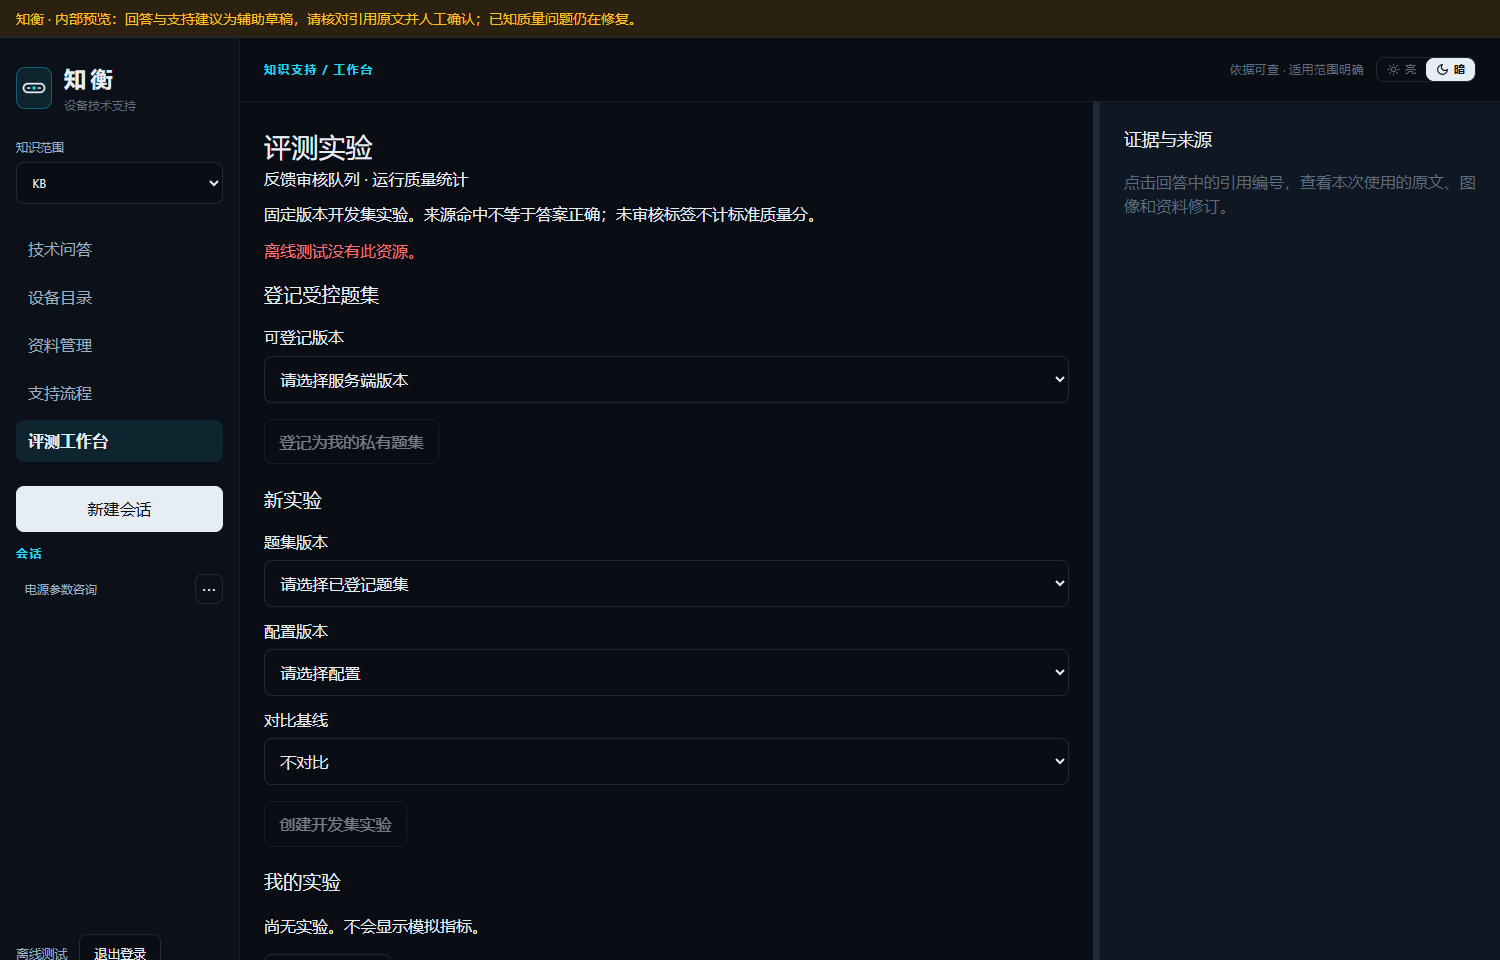
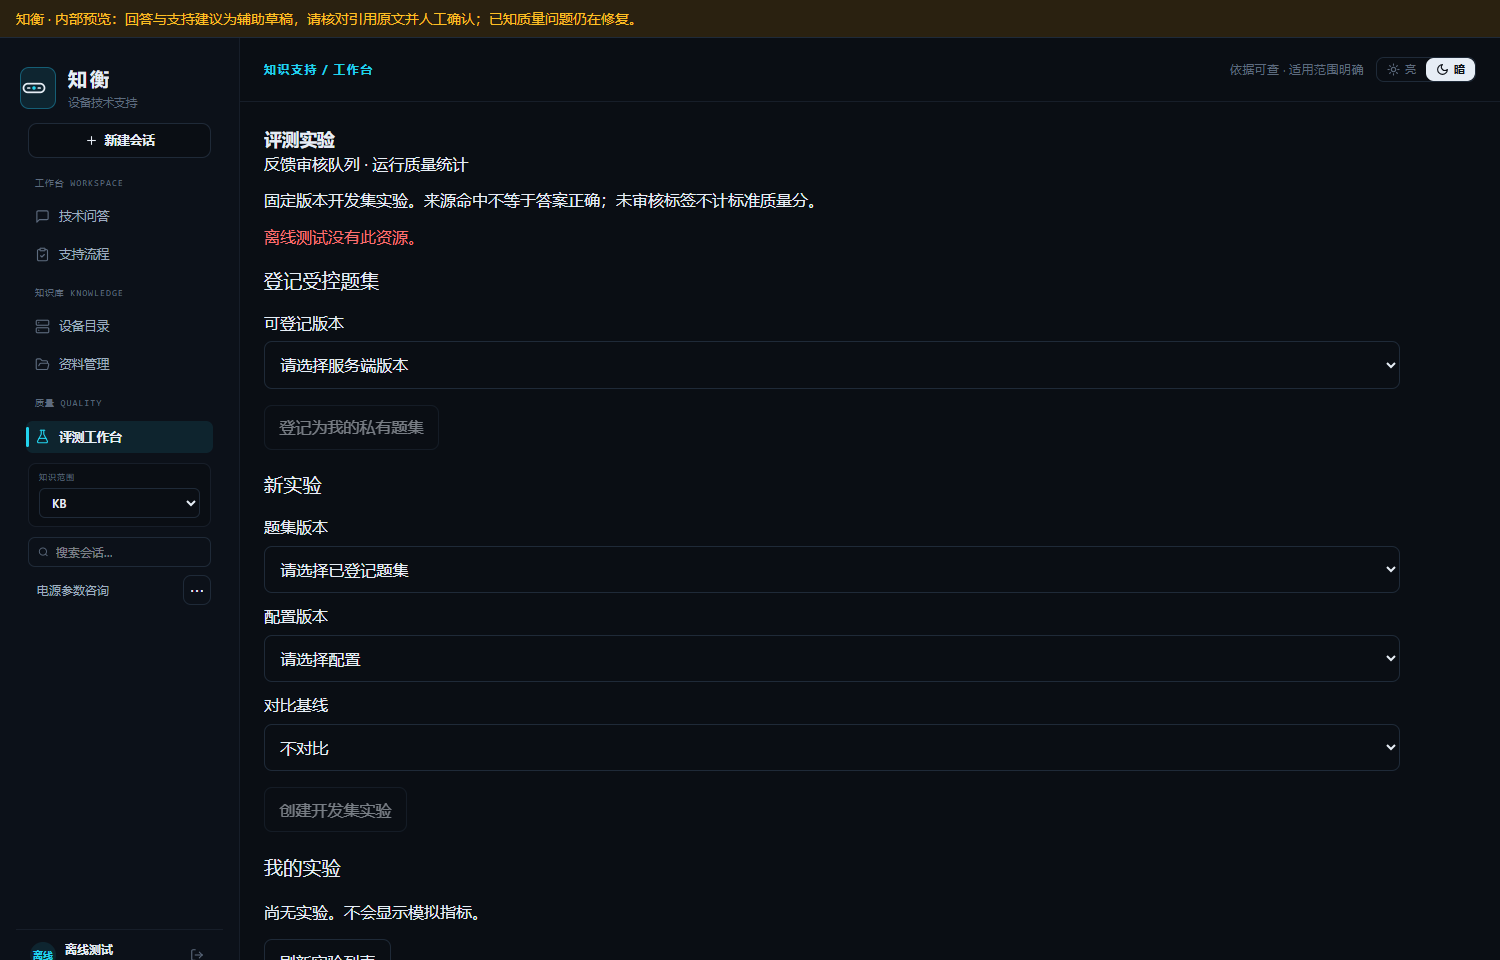
feat(ui): P4-F 收尾（grep 双验证清零/全套验收 58 全绿/双主题 12 截图更新/执行报告，任务书全勾）

diff --git a/frontend/docs/design/PHASE4-EXECUTION-REPORT.md b/frontend/docs/design/PHASE4-EXECUTION-REPORT.md
@@ -1,0 +1,50 @@
+# 知衡前端 Phase 4 · 布局级补课执行报告
+
+> 执行日期：2026-11-09 · 分支：`feat/ui-phase4-layout`（基线 main @ e4829fd，含 db8481a）
+> 任务书：`docs/plans/PHASE4-LAYOUT-PLAN-2026-11-09.md`（已随首个 commit 入库，评审 D4 闭环）
+> 目标：修复评审 D1「四页铺开只做了 token 换肤、布局级重构未发生」
+
+## 一、Commit 序列（7 个）
+
+| Commit | 任务 | 实际改动文件 |
+|--------|------|--------------|
+| 0637ce7 | 任务书入库 | `docs/plans/PHASE4-LAYOUT-PLAN-2026-11-09.md` |
+| ccdb74e | P4-0 快修四小项 | `__scenario-shots.spec.ts`（5 用例补真断言+新增 t0-5 回退用例+mock products 映射）、`LoginPage.vue`（D5 钮归位）、`ChatThread.vue`（D6 死代码）、`EvidenceCard.vue`（D7 回退样式） |
+| b981922 | P4-1 侧栏六要素 | `SidebarNav.vue`（新，六要素组件化）、`WorkbenchLayout.vue`（接入）、`ConversationList.vue`（keyword 过滤+移除旧 create）、`useCreateConversation.ts`（新 composable） |
+| c9ea7c1 | P4-2 证据栏按路由 | `router.ts`（chat meta.evidence）、`WorkbenchLayout.vue`（showEvidence computed） |
+| f6c7291 | P4-3 两页卡片化 | `ProductsPage.vue`（Card 族+Server 图标+登记弹层）、`DocumentsPage.vue`（类型图标+发布 Badge+虚线拖放上传卡） |
+| 239ef78 | P4-4 评测页整理 | `evaluation/` 5 文件（页头 1.1rem 粗体+表格 12px+行 hover） |
+| (本提交) | P4-F 收尾 | `screenshots/final/` ×12 更新、本报告 |
+
+## 二、Checkbox 勾选（对应任务书）
+
+- [x] T0.1 环境与分支（node_modules 非 junction，直接可用）
+- [x] T0.2 场景截图补真断言（5 用例各 1 条可见性断言；顺带修复暴露的 mock 缺陷：products 映射缺失导致徽标显示 product_id）
+- [x] T0.3 登录主钮归位（删 --accent 覆盖，回 Button primary 语义）
+- [x] T0.4 清死代码（无意义三元删除）
+- [x] T0.5 空文档名回退（evc-fallback mono 小字 + t0-5 e2e 断言覆盖）
+- [x] P4-1 侧栏六要素（品牌区/新建会话主钮/三分组 lucide 导航/知识范围卡/会话搜索+列表/用户卡片含首字母头像与角色 mono 标）
+- [x] P4-2 非聊天页收起证据栏（route.meta.evidence；/products 等 4 类页面全宽，chat 不变，移动端抽屉不变）
+- [x] P4-3 两页真卡片化（Card 组件消费页面 2 个 ≥ 验收线；CardHeader/CardContent/Badge 全用上；上传改虚线拖放卡）
+- [x] P4-4 评测五页最小整理（仅页头与表格密度，不重排）
+- [x] P4-F 收尾（grep 双验证/全套验收/12 截图/本报告）
+
+## 三、验收记录
+
+- 每任务后 `pnpm typecheck`（0 错）+ `pnpm test:unit`（62/62）
+- 全套：typecheck 0 错 · 单测 62/62 · `pnpm build` 9.06s 通过 · **e2e 58/58**（57 原有 + 1 新增 t0-5）
+- 结构化视觉断言（临时用例跑过即删）：侧栏六要素全部可见 + /products 无证据分隔条（全宽）✅
+- 双主题截图：`docs/design/screenshots/final/` 6 页 × 2 主题全量更新（新侧栏+全宽页面），带内容断言
+- 红线自查：零新增 npm 依赖 ✅ · SSE 三文件零改动 ✅ · 后端零改动 ✅ · 颜色字面量仅 citation-overlay 例外 ✅
+
+## 四、e2e 选择器适配记录（铁律：不删语义）
+
+- `selected-product.spec`：设备卡改 Card 后保留 `h2` 承载型号（语义即卡片标题）+ Card 上保留 `product-card` 类 → 5 用例零修改通过
+- `documents.spec`：上传 input 保留 `getByLabel('原件文件')` 关联 → 用例零修改通过
+
+## 五、遗留问题（如实）
+
+1. **上传区双形态**：拖放卡与表单内 file input 并存（单一 input 方案，拖放卡为入口+状态显示）。视觉上表单仍整体展示（含用途/关联设备），未做成分步向导——任务书允许（"保留既有 input 兜底"）。
+2. **新建会话钮样式**：按 v6 设计稿 newbtn 实现（--bg 底+accent hover），任务书原文写"--ink 底 --bg 字（发送钮语义）"——以设计稿为准实现（任务书冲突处理规则：视觉基准优先），已在 commit 中注明。
+3. **评测页 hover 仅 RunsPage 表格生效**：ReviewPage 等无表格结构，hover 规则无处生效（符合预期）。
+4. **P4-1 移动端**：抽屉行为经 layout.spec 验证不回归；六要素在窄屏的密度未单独优化（原任务书未要求）。

diff --git a/docs/plans/PHASE4-LAYOUT-PLAN-2026-11-09.md b/docs/plans/PHASE4-LAYOUT-PLAN-2026-11-09.md
@@ -102,10 +102,10 @@ Phase 4 目标：把这四件事补上，让 v6 设计稿（`docs/design/ui-fina
 
 ### P4-F · 收尾（半天）
 
-- [ ] 全库 grep 验证：颜色字面量仅 tokens.css + citation-overlay；`catalog-page` 旧类在已重构页清零
-- [ ] 全套验收：`pnpm typecheck && pnpm test:unit && pnpm build && pnpm test:e2e`（57/57，含 T0.2 补强的断言）
-- [ ] 双主题全站截图更新至 `docs/design/screenshots/final/`（6 页 × 2 主题，覆盖新侧栏与全宽页面）
-- [ ] 执行报告：`frontend/docs/design/PHASE4-EXECUTION-REPORT.md`（checkbox 对照 + 实际改动文件 + 遗留清单，格式沿用 v6 报告）
+- [x] 全库 grep 验证：颜色字面量仅 tokens.css + citation-overlay；`catalog-page` 旧类在已重构页清零
+- [x] 全套验收：`pnpm typecheck && pnpm test:unit && pnpm build && pnpm test:e2e`（57/57，含 T0.2 补强的断言）
+- [x] 双主题全站截图更新至 `docs/design/screenshots/final/`（6 页 × 2 主题，覆盖新侧栏与全宽页面）
+- [x] 执行报告：`frontend/docs/design/PHASE4-EXECUTION-REPORT.md`（checkbox 对照 + 实际改动文件 + 遗留清单，格式沿用 v6 报告）
 
 ## 四、工期与顺序
 
